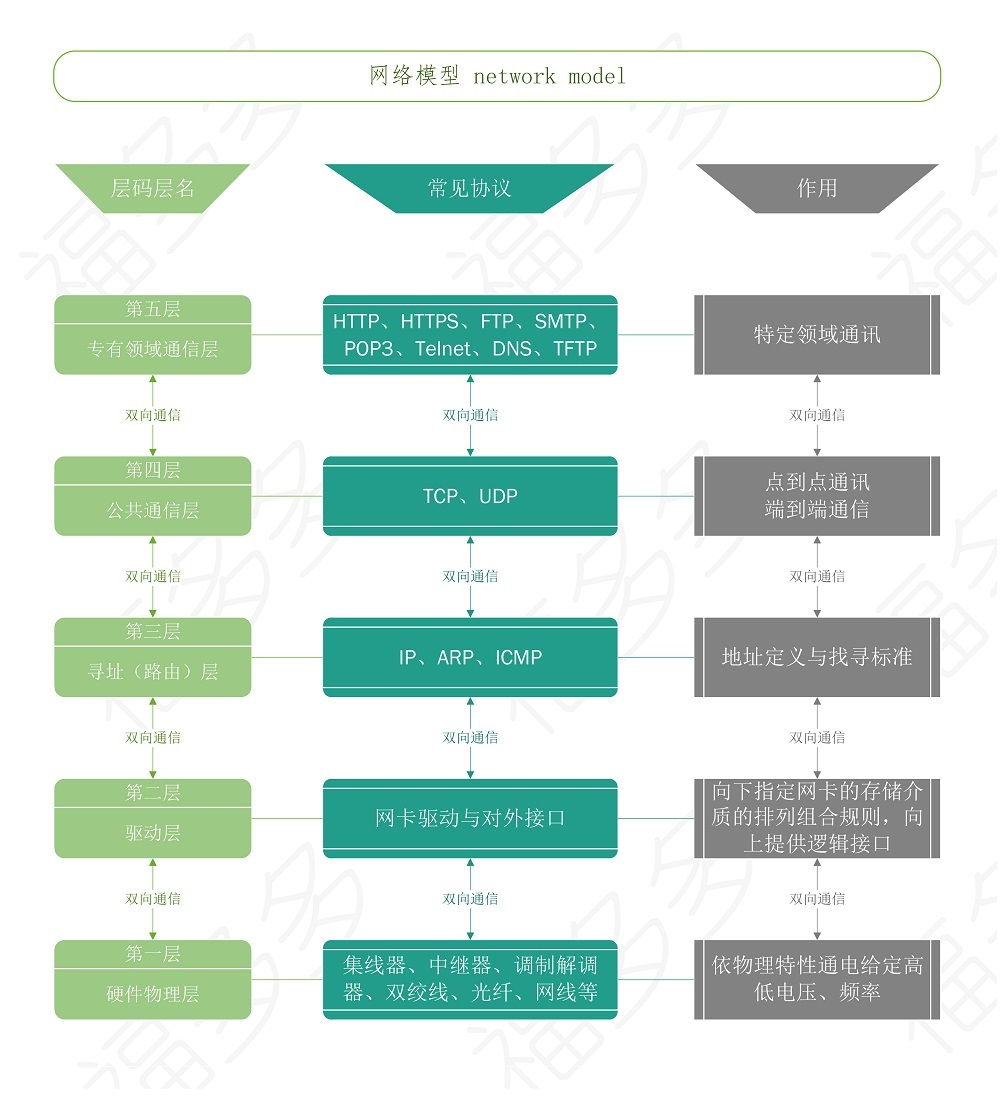
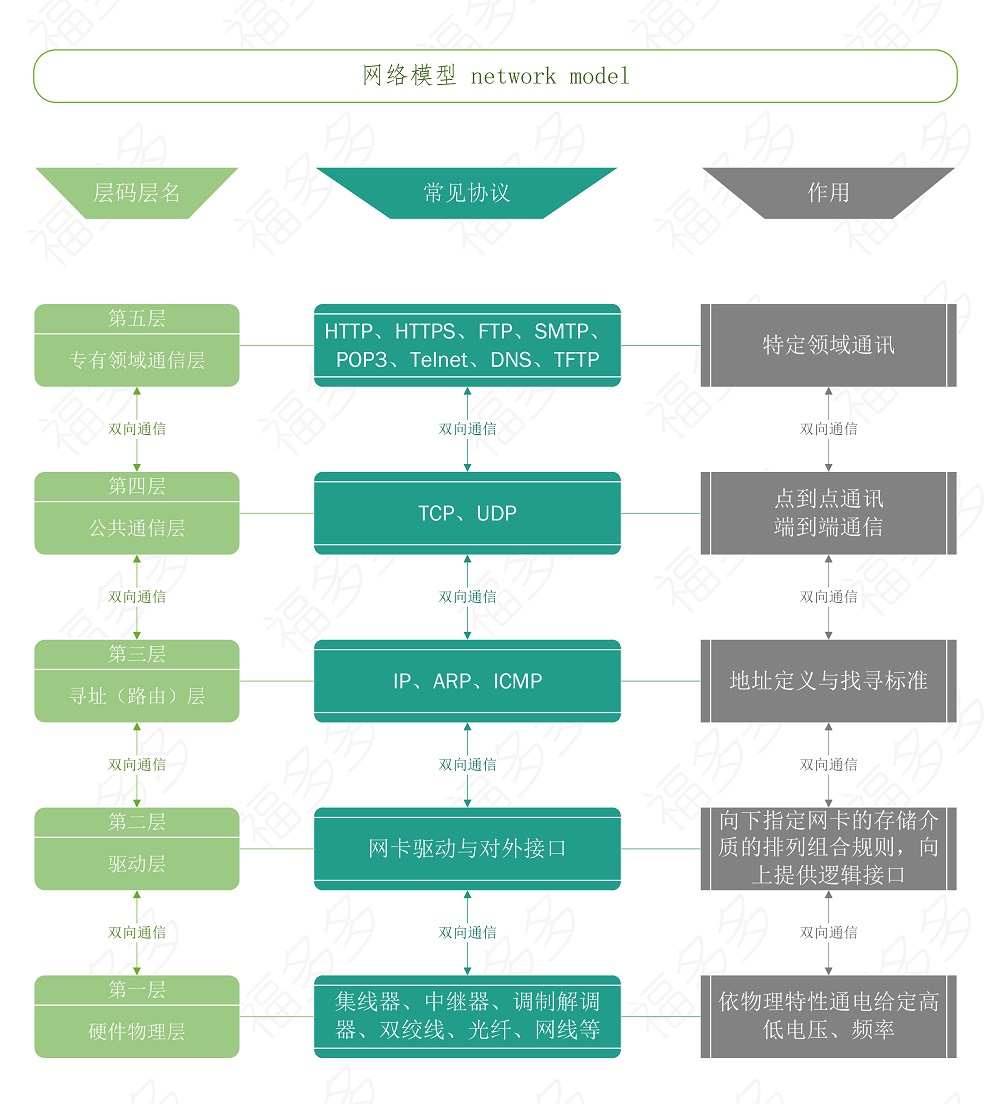
1、优化【网络模型】图； 2、优化【线程池流程】图；

diff --git a/threadLifeCycle.md b/threadLifeCycle.md
@@ -2,7 +2,7 @@
 
 -------------------------------------------------------------------------------------------
 ## 线程的生命周期（thread lifecycle）
-![线程的生命周期](https://www.joyupx.com/image/thread-life-cycle.jpg "线程生命周期（thread lifecycle）")
+![线程的生命周期](/image/thread-life-cycle.jpg "线程生命周期（thread lifecycle）")
 
 -------------------------------------------------------------------------------------------
 

diff --git a/threadPoolFlow.md b/threadPoolFlow.md
@@ -4,7 +4,7 @@
 ## 线程池的执行流程
 <font color=#333333 size=5>thread pool execute flow</font>
 
-![线程池的执行流程](https://www.joyupx.com/image/thread-pool-flow.jpg "线程池的执行流程（thread pool execute flow）")
+![线程池的执行流程](/image/thread-pool-flow.jpg "线程池的执行流程（thread pool execute flow）")
 
 -------------------------------------------------------------------------------------------
 

diff --git a/networkModel.md b/networkModel.md
@@ -2,7 +2,7 @@
 
 -------------------------------------------------------------------------------------------
 ## 网络模型（network model）
-![网络层次图](https://www.joyupx.com/image/network-model.jpg "网络模型（network model）")
+![网络层次图](/image/network-model.jpg "网络模型（network model）")
 
 -------------------------------------------------------------------------------------------
 

diff --git a/README.md b/README.md
@@ -10,7 +10,7 @@
 
 * [线程池的执行流程（thread pool execute flow）](threadPoolFlow.md)
 
-* [线程池的 5 中状态（thread pool 5 state](threadPoolState.md)
+* [线程池的 5 中状态（thread pool 5 state）](threadPoolState.md)
 
 * [网络模型（network model）](networkModel.md)
 
